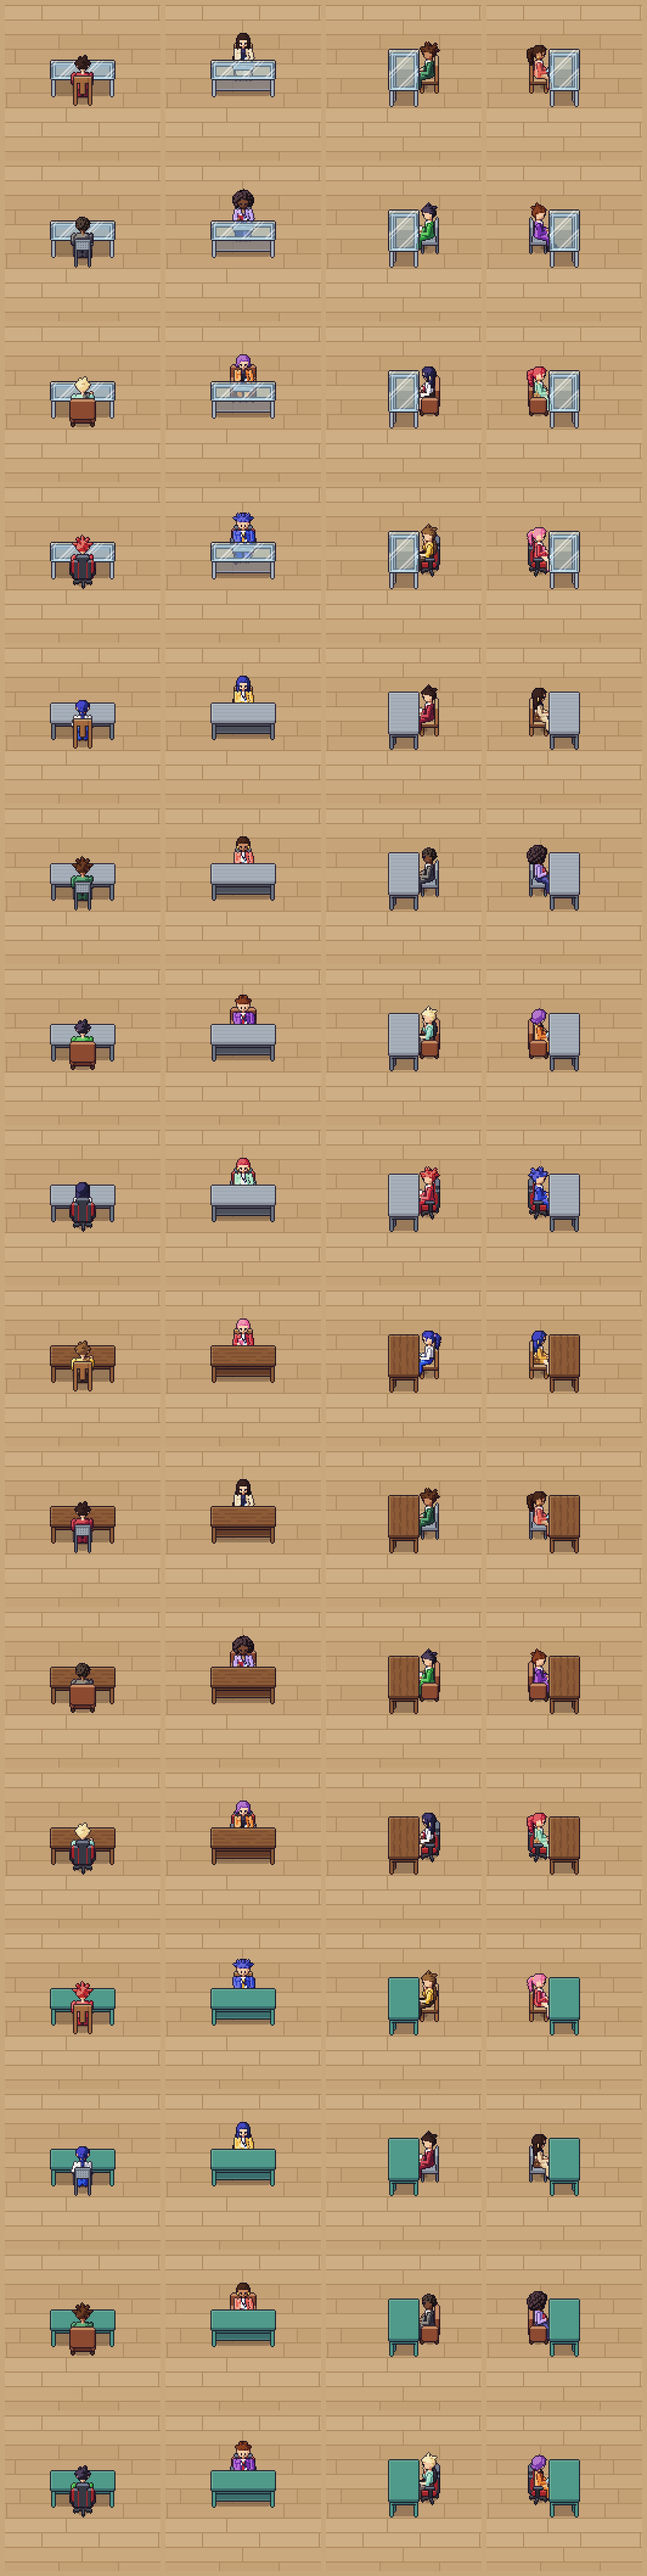
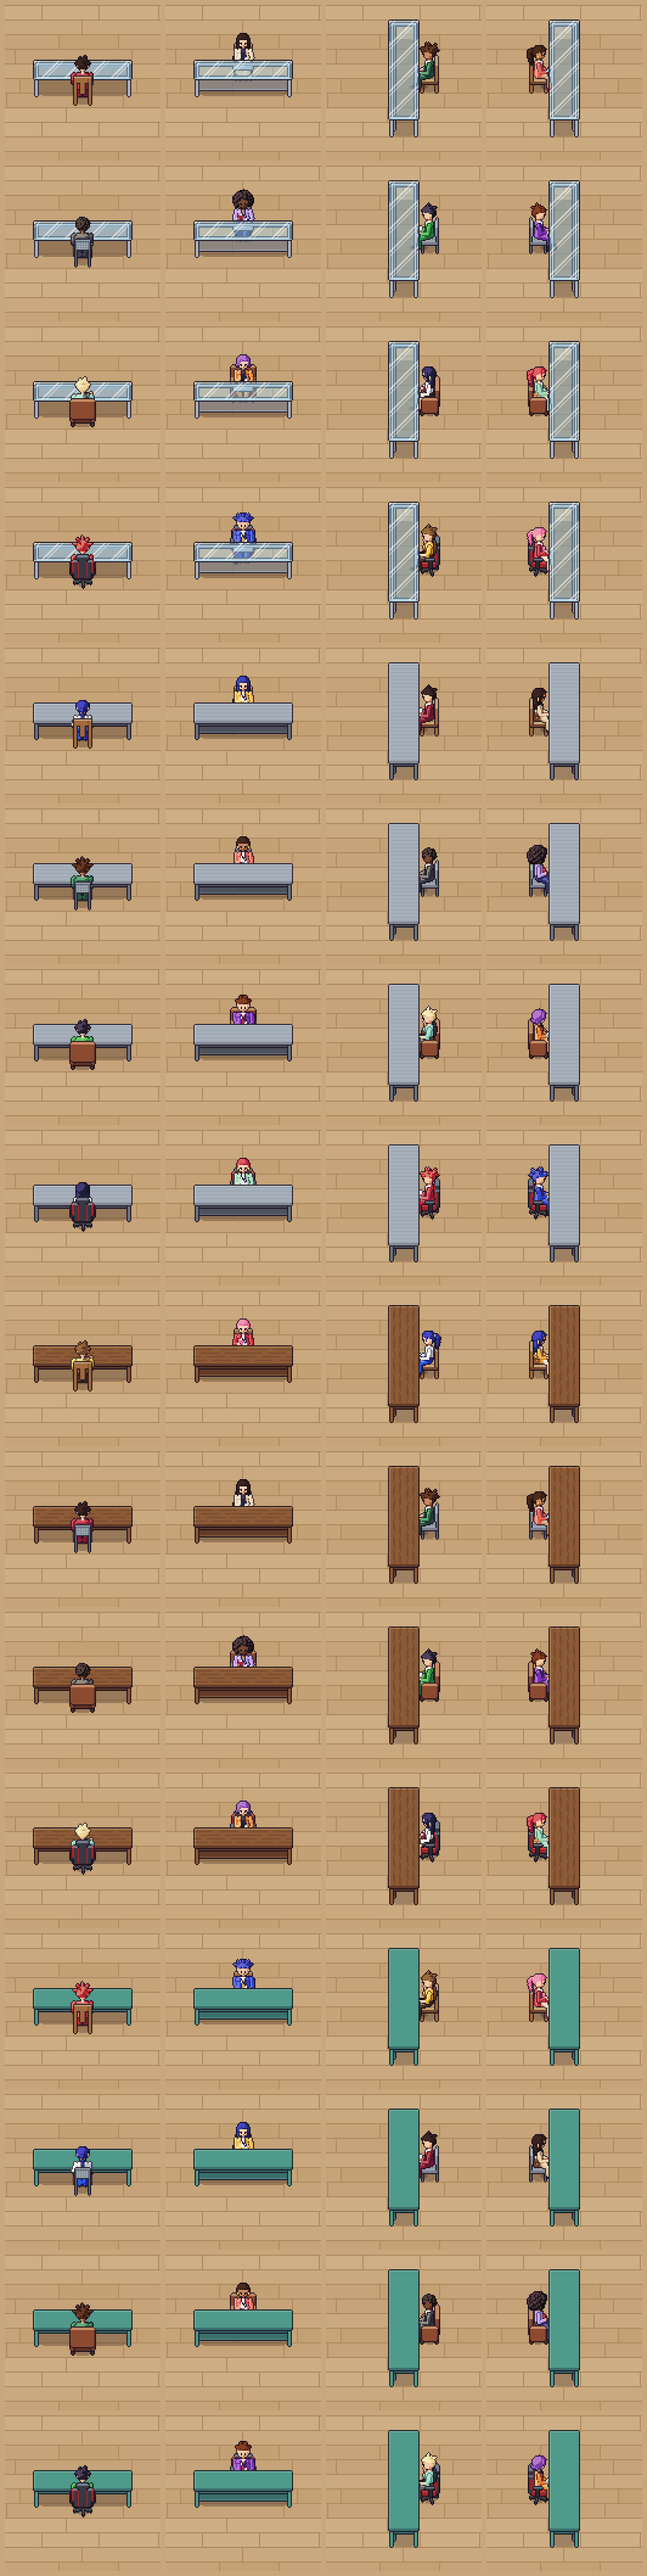
feat(art): draw desk tables 2.5 tiles long to fit a desk edge

diff --git a/tools/art/domain/tables.ts b/tools/art/domain/tables.ts
@@ -31,14 +31,22 @@ export interface TableSprite {
   readonly ground: SeatPoint;
   /** Where the ground point of a chair with the same facing goes, tucked a little under the top. */
   readonly chairGround: SeatPoint;
+  /** Screen pixels of floor the top runs along its long side, the outline aside. */
+  readonly floorLength: number;
 }
 
 /** Model extents: `u` runs from the sitter's side (negative) to the far side, `v` along the top. */
 const HALF_DEPTH = 12;
-const HALF_WIDTH = 26;
+/**
+ * Half the long side on screen: 80px, about 2.5 tiles, so a table sits
+ * centered on a 3-tile edge of a desk (a decor table, Editar espacios) and
+ * leaves the rest of the 3x3 free. Facing left or right the long side runs
+ * along the floor depth, which DEPTH_SCALE shortens, so the model is longer
+ * there to draw the same 80px.
+ */
+const HALF_LENGTH_PX = 40;
 const TOP_UNDER = TABLE_HEIGHT - 2;
 const LEG_U: Span = [HALF_DEPTH - 3, HALF_DEPTH - 1];
-const LEG_V: Span = [HALF_WIDTH - 3, HALF_WIDTH - 1];
 /**
  * A chair's seat is 14 deep. In front of or behind the table it slides 3 pixels under the top; beside
  * it (left/right) the sitter sorts before the table, so the seat stops 2 pixels short of the top
@@ -64,7 +72,13 @@ function mirrorV(box: Box): Box {
   return { ...box, v: [-box.v[1], -box.v[0]] };
 }
 
-function tableModel(look: TableLook): FurnitureModel {
+/** Half the model length `v` that draws HALF_LENGTH_PX on screen for a facing. */
+function halfWidthFor(facing: Facing): number {
+  return facing === 'up' || facing === 'down' ? HALF_LENGTH_PX : Math.round(HALF_LENGTH_PX / DEPTH_SCALE);
+}
+
+function tableModel(look: TableLook, HALF_WIDTH: number): FurnitureModel {
+  const LEG_V: Span = [HALF_WIDTH - 3, HALF_WIDTH - 1];
   const leg: Box = { u: LEG_U, v: LEG_V, y: [0, TOP_UNDER], ramp: look.frame, top: 'light', side: 'base' };
   const legs = [leg, mirrorU(leg), mirrorV(leg), mirrorU(mirrorV(leg))];
   const glassAlpha = look.glass ? GLASS_ALPHA : undefined;
@@ -157,14 +171,18 @@ export function tableSprite(material: TableMaterial, facing: Facing, color = DEF
   const id = `${material}:${facing}:${material === 'painted' ? color : ''}`;
   const cached = cache.get(id);
   if (cached) return cached;
-  const { back, origin } = renderFurniture(tableModel(look(material, color)), facing);
-  const front = floorSpans(facing, [-HALF_DEPTH, HALF_DEPTH], [-HALF_WIDTH, HALF_WIDTH]).z[1] - 1;
+  const halfWidth = halfWidthFor(facing);
+  const { back, origin } = renderFurniture(tableModel(look(material, color), halfWidth), facing, 192);
+  const spans = floorSpans(facing, [-HALF_DEPTH, HALF_DEPTH], [-halfWidth, halfWidth]);
+  const front = spans.z[1] - 1;
+  const floorLength = facing === 'up' || facing === 'down' ? spans.x[1] - spans.x[0] : spans.z[1] - spans.z[0];
   const chair = floorPoint(facing, facing === 'left' || facing === 'right' ? SIDE_CHAIR_U : CHAIR_U, 0);
   const sprite: TableSprite = {
     image: back,
     center: origin,
     ground: { x: origin.x, y: origin.y + front },
     chairGround: { x: origin.x + chair.x, y: origin.y + chair.y },
+    floorLength,
   };
   if (material === 'painted' && cache.size > 64) cache.clear();
   cache.set(id, sprite);

diff --git a/tools/art/domain/tables.test.ts b/tools/art/domain/tables.test.ts
@@ -24,7 +24,18 @@ test('tables are wide facing up or down and deep facing left or right, small eno
     const name = `${material} ${facing}`;
     if (facing === 'up' || facing === 'down') assert.ok(width > height * 1.4, `${name}: ${width}x${height}`);
     else assert.ok(height > width * 1.4, `${name}: ${width}x${height}`);
-    assert.ok(width <= 60 && height <= 60, `${name}: ${width}x${height}`);
+    assert.ok(width <= 96 && height <= 104, `${name}: ${width}x${height}`);
+  }
+});
+
+test('a table is about 2.5 tiles long on screen, horizontal or vertical, so it sits centered on a 3-tile desk edge', () => {
+  // The floor run of the top along the long side: 80px, 2.4 to 2.6 tiles, the outline aside.
+  for (const { material, facing, sprite } of ALL) {
+    const name = `${material} ${facing}`;
+    const { floorLength } = sprite;
+    assert.ok(floorLength >= 2.4 * 32 && floorLength <= 2.6 * 32, `${name}: ${floorLength}`);
+    const drawn = facing === 'up' || facing === 'down' ? sprite.image.width : sprite.image.height;
+    assert.ok(drawn >= floorLength && drawn < 3 * 32 + 8, `${name}: ${drawn}`);
   }
 });
 
@@ -72,7 +83,8 @@ test('glass tops are translucent so the legs and floor show through; other table
     }
     const area = sprite.image.width * sprite.image.height;
     if (material === 'glass') assert.ok(translucent > area * 0.25, `glass ${facing}: ${translucent} translucent pixels`);
-    else assert.ok(translucent < area * 0.25, `${material} ${facing}: only the contact shadow is translucent`);
+    // The long top leaves a wide knee space facing up, where the contact shadow shows: still well under glass.
+    else assert.ok(translucent < area * 0.3, `${material} ${facing}: only the contact shadow is translucent`);
   }
 });
 

diff --git a/src/game/artContract.ts b/src/game/artContract.ts
@@ -290,19 +290,25 @@ export const CHAIR: ChairSpec = {
   maxColors: MAX_COLORS_PER_IMAGE,
 };
 
-/** 64px cells (2x2 tiles) fit a desk in any facing; its footprint follows the long side. */
+/**
+ * A desk piece is the table a person places on one 3-tile edge of their desk
+ * (desk decor, Editar espacios): about 2.5 tiles (80px) long in any facing,
+ * so it looks centered on the edge and leaves the rest of the 3x3 free. A
+ * 96x104 cell fits it horizontal or vertical (the vertical one stands its top
+ * over 80 floor rows); the footprint is the whole edge, along the long side.
+ */
 export const DESK: DeskSpec = {
   kind: 'desk',
-  frame: { width: 64, height: 64 },
+  frame: { width: 96, height: 104 },
   columns: PACK_FACINGS.length,
   rows: 1,
   columnOrder: PACK_FACINGS,
-  anchor: { x: 32, y: 40 },
+  anchor: { x: 48, y: 60 },
   footprintByFacing: {
-    up: { w: 2, h: 1 },
-    down: { w: 2, h: 1 },
-    left: { w: 1, h: 2 },
-    right: { w: 1, h: 2 },
+    up: { w: 3, h: 1 },
+    down: { w: 3, h: 1 },
+    left: { w: 1, h: 3 },
+    right: { w: 1, h: 3 },
   },
   alpha: 'partial',
   transparentCorners: true,

diff --git a/server/src/assets/assetUploadRules.test.ts b/server/src/assets/assetUploadRules.test.ts
@@ -33,10 +33,10 @@ function sheet(kind: ArtImageKind, rgb: readonly [number, number, number] = [200
 }
 
 const FACINGS: ArtDeskPiece['facings'] = {
-  up: { footprint: { w: 2, h: 1 }, ground: { x: 0, y: 6 }, chairGround: { x: 0, y: 10 } },
-  down: { footprint: { w: 2, h: 1 }, ground: { x: 0, y: 6 }, chairGround: { x: 0, y: -10 } },
-  left: { footprint: { w: 1, h: 2 }, ground: { x: 0, y: 15 }, chairGround: { x: 21, y: 0 } },
-  right: { footprint: { w: 1, h: 2 }, ground: { x: 0, y: 15 }, chairGround: { x: -21, y: 0 } },
+  up: { footprint: { w: 3, h: 1 }, ground: { x: 0, y: 6 }, chairGround: { x: 0, y: 10 } },
+  down: { footprint: { w: 3, h: 1 }, ground: { x: 0, y: 6 }, chairGround: { x: 0, y: -10 } },
+  left: { footprint: { w: 1, h: 3 }, ground: { x: 0, y: 15 }, chairGround: { x: 21, y: 0 } },
+  right: { footprint: { w: 1, h: 3 }, ground: { x: 0, y: 15 }, chairGround: { x: -21, y: 0 } },
 };
 
 const CREDITS = { name: 'Lucía', author: 'Equipo de arte', license: 'proprietary-internal' };

diff --git a/src/game/artContract.test.ts b/src/game/artContract.test.ts
@@ -133,12 +133,13 @@ describe('art contract constants', () => {
     // A chair cell is 36x38, bigger than a tile, but it still occupies one tile.
     expect(ART_IMAGE_SPECS.chair.frame).toEqual({ width: 36, height: 38 });
     expect(ART_IMAGE_SPECS.chair.footprint).toEqual({ w: 1, h: 1 });
-    expect(ART_IMAGE_SPECS.desk.frame).toEqual({ width: 64, height: 64 });
+    // A desk (a decor table) is about 2.5 tiles long and spans a 3-tile desk edge.
+    expect(ART_IMAGE_SPECS.desk.frame).toEqual({ width: 96, height: 104 });
     expect(ART_IMAGE_SPECS.desk.footprintByFacing).toEqual({
-      up: { w: 2, h: 1 },
-      down: { w: 2, h: 1 },
-      left: { w: 1, h: 2 },
-      right: { w: 1, h: 2 },
+      up: { w: 3, h: 1 },
+      down: { w: 3, h: 1 },
+      left: { w: 1, h: 3 },
+      right: { w: 1, h: 3 },
     });
   });
 

diff --git a/src/game/terrainRender.test.ts b/src/game/terrainRender.test.ts
@@ -213,7 +213,9 @@ describe('props of the committed layout against the pack', () => {
       expect(piece?.kind, prop.piece).toBe(prop.kind);
       if (piece === undefined) continue;
       if (piece.kind === 'desk') {
-        expect(piece.facings[prop.facing!].footprint).toEqual({ w: prop.w, h: prop.h });
+        // A desk piece is a decor table now (3 tiles); a Tiled desk keeps its own footprint, along the same axis.
+        const declared = piece.facings[prop.facing!].footprint;
+        expect(declared.w > declared.h).toBe(prop.w > prop.h);
       } else if ('footprint' in piece) {
         expect(piece.footprint, `${prop.piece} at (${prop.tx}, ${prop.ty})`).toEqual({ w: prop.w, h: prop.h });
       }

diff --git a/src/game/artPackLoader.browser.test.ts b/src/game/artPackLoader.browser.test.ts
@@ -122,7 +122,8 @@ describe('ArtPackLoader', () => {
 
     expect(key).toBe(recoloredSheetKey('desk-painted', 'sheet', '#c0392b'));
     const texture = scene.textures.get(key as string);
-    expect(texture.get(1)).toMatchObject({ width: 64, height: 64 });
+    // The desk cell (a decor table, 2.5 tiles long), not stretched.
+    expect(texture.get(1)).toMatchObject({ width: 96, height: 104 });
     expect(art.sheet('desk-painted', 'sheet', '#C0392B')).toBe(key);
     expect(scene.textures.get(key as string)).toBe(texture);
     // The exported color and a non-colorable material draw the exported sheet.

diff --git a/src/game/artMaterials.test.ts b/src/game/artMaterials.test.ts
@@ -125,7 +125,7 @@ describe('previewFrame', () => {
     const desk = catalog().desk[0]!;
     const floor = catalog().floor[0]!;
 
-    expect(previewFrame(desk)).toEqual({ x: 64, y: 0, width: 64, height: 64 });
+    expect(previewFrame(desk)).toEqual({ x: 96, y: 0, width: 96, height: 104 });
     expect(previewFrame(floor)).toEqual({ x: 0, y: 0, width: 96, height: 96 });
   });
 

diff --git a/src/game/artPack.test.ts b/src/game/artPack.test.ts
@@ -107,8 +107,8 @@ describe('load requests', () => {
       {
         key: artSheetKey('desk-painted', 'sheet'),
         url: 'https://cdn.example/pack/desk/painted.png',
-        frameWidth: 64,
-        frameHeight: 64,
+        frameWidth: 96,
+        frameHeight: 104,
       },
     ]);
   });

diff --git a/docs/art/contract.md b/docs/art/contract.md
@@ -21,7 +21,7 @@ The executable source of truth is `src/game/artContract.ts` (`ART_CONTRACT_VERSI
 | `character-walk` | 32x52 | 11 x 8 | 352x416 | columns 0-9 steps, 10 idle; rows `S, SE, E, NE, N, NW, W, SW` | feet (16, 47) | 1x1 (feet tile) |
 | `character-seated` | 44x58 | 8 x 4 | 352x232 | columns 0-5 sit-down, 6-7 seated idle; rows `up, down, left, right` | pelvis on seat (22, 42) | the chair's |
 | `chair` | 36x38 | 4 x 2 | 144x76 | columns `up, down, left, right`; row 0 `back`, row 1 `front` | seat (18, 22), ground (18, 31) | 1x1 |
-| `desk` | 64x64 | 4 x 1 | 256x64 | columns `up, down, left, right` | floor under the middle (32, 40) | 2x1 up/down, 1x2 left/right |
+| `desk` | 96x104 | 4 x 1 | 384x104 | columns `up, down, left, right` | floor under the middle (48, 60) | 3x1 up/down, 1x3 left/right |
 | `floor` | 32x32 | 3 x 3 | 96x96 | frame `row * 3 + col` is motif sub-tile (col, row) | top-left | 1x1 per frame |
 | `wall` | 16x16 | 17 x 1 | 272x16 | 0 horizontal body, 1 vertical body, `1 + mask` joint | top-left | segment on a grid edge |
 | `terrain-tileset` | 32x32 | 48 x 108 | 1536x3456 | `terrainTileIndex(material, mask, phase, variant)`, then the decal row, the water bank and void cap row, and the void edge tiles | top-left | 1x1 per tile, on the dual grid |
@@ -34,7 +34,7 @@ The executable source of truth is `src/game/artContract.ts` (`ART_CONTRACT_VERSI
 The office's facing order (`FACINGS` in `officeProtocol.ts`: `down, up, left, right`) differs from the pack order (`up, down, left, right`). To pick a row or column, use `walkRowForFacing` and `seatedRowForFacing`/`facingColumn`, never a raw index. A facing is the direction a seated character looks.
 
 - **Seating**: draw a sitter at `chair seat - (22, 42)`. Draw in this order: chair `back`, then the character, then chair `front`. The ground point y-sorts the chair and its sitter against the furniture around them, so a desk in front covers the sitter's legs; walking characters stay above both (`depthLayers.ts`).
-- **Desks**: the manifest gives, per facing, the depth point and where the ground point of a matching chair goes. Both are offsets from the desk anchor.
+- **Desks**: a desk piece is the table a person places on one 3-tile edge of their desk area (desk decor). Its top runs about 2.5 tiles (80px) of floor along the long side in every facing, so it looks centered on the edge and leaves the other 2x3 tiles free; facing left or right that length runs along the shortened floor depth, so the model is longer there. The manifest gives, per facing, the depth point and where the ground point of a matching chair goes. Both are offsets from the desk anchor.
 - **Floors**: each floor is a 96x96 seamless motif split into nine 32x32 tiles (`splitFloorMotif`). World tile (tx, ty) draws frame `floorFrameAt(tx, ty)`, so the full motif repeats every 3 tiles instead of one tile of it.
 - **Walls**: walls sit on the edges of the 32px grid. Each is 16px thick and centered on its line. Every vertex that has a wall gets a 16x16 joint, shaped by its connection mask (north 1, east 2, south 4, west 8). Between two joints sits a 16px body (`wallJointRect`, `wallBodyRect`). The art was drawn for a 96px grid. The exporter regenerates it at 32px.
 
@@ -100,7 +100,7 @@ Issue #121 set a first contract before the pack existed. The pack does not fit i
 | Character frame | 32x64, 4 directions, 4 steps, one seated row (128x320) | 32x52 walk with 8 directions, 10 steps and idle; separate 44x58 seated sheet with 6+2 frames | The pack's characters are drawn at this size and cadence. The seated pose needs a wider cell. |
 | Facing order | down, left, right, up | Pack order up, down, left, right, mapped explicitly | This matches the generated sheets. The mapping helpers remove the ambiguity. |
 | Chair | 32x32 cells, row 0 base, row 1 backrest | 36x38 cells, row 0 back, row 1 front, fixed seat anchor | Chairs are up to 22x36, and aligned on one seat pixel they span 37 rows. Layers are split by draw order, not by part. |
-| Desk | `w*32 x h*32` plus 32px overhang, anchored bottom-left | Fixed 64x64 cell per facing, anchored under the middle, with a footprint separate from the PNG | Desks come in 4 orientations of different shapes (54x31, 27x48). |
+| Desk | `w*32 x h*32` plus 32px overhang, anchored bottom-left | Fixed 96x104 cell per facing, anchored under the middle, with a footprint separate from the PNG | Desks come in 4 orientations of different shapes (82x31, 27x97): an 80px top that fits a 3-tile desk edge. |
 | Alpha | Binary (0 or 255) | Partial allowed; floors opaque | Shadows and glass are intentionally translucent. |
 | Colors | 64 per piece | 128 per file | Measured characters reach about 75. |
 

diff --git a/docs/assets/templates.md b/docs/assets/templates.md
@@ -7,7 +7,7 @@ Guide PNGs for drawing a piece that passes the upload checks. There is one templ
 | `character-walk.png` | character `walk` | 352x416 | 32x52 | 11 x 8 |
 | `character-seated.png` | character `seated` | 352x232 | 44x58 | 8 x 4 |
 | `chair.png` | none (pack only) | 144x76 | 36x38 | 4 x 2 |
-| `desk.png` | desk `sheet` | 256x64 | 64x64 | 4 x 1 |
+| `desk.png` | desk `sheet` | 384x104 | 96x104 | 4 x 1 |
 | `floor.png` | floor `sheet` | 96x96 | 32x32 | 3 x 3 |
 | `plant.png` | plant `sheet` | 32x48 | 32x48 | 1 x 1 |
 
@@ -37,7 +37,7 @@ The labels follow the contract's order. Draw each frame in the cell that has its
 - **Character walk**: one row per direction, `S, SE, E, NE, N, NW, W, SW`. Columns `STEP 0` to `STEP 9` are the walk cycle, and the last column is `IDLE`.
 - **Character seated**: one row per facing, `UP, DOWN, LEFT, RIGHT` (the way the sitter looks). Columns `SIT 0` to `SIT 5` sit down, and `IDLE 6` and `IDLE 7` loop while seated.
 - **Chair**: one column per facing, `UP, DOWN, LEFT, RIGHT`. Row `BACK` is drawn behind the sitter, and row `FRONT` is drawn in front of them.
-- **Desk**: one column per facing, `UP, DOWN, LEFT, RIGHT`. The second line is its footprint in tiles (`2X1` or `1X2`).
+- **Desk**: one column per facing, `UP, DOWN, LEFT, RIGHT`. The second line is its footprint in tiles (`3X1` or `1X3`): the desk edge the table stands on. Keep the top about 80px long so it sits centered on that edge.
 - **Floor**: frame `row * 3 + col` is a 32x32 tile of one 96x96 motif. The whole sheet must tile seamlessly and be fully opaque.
 - **Plant**: one frame.
 
